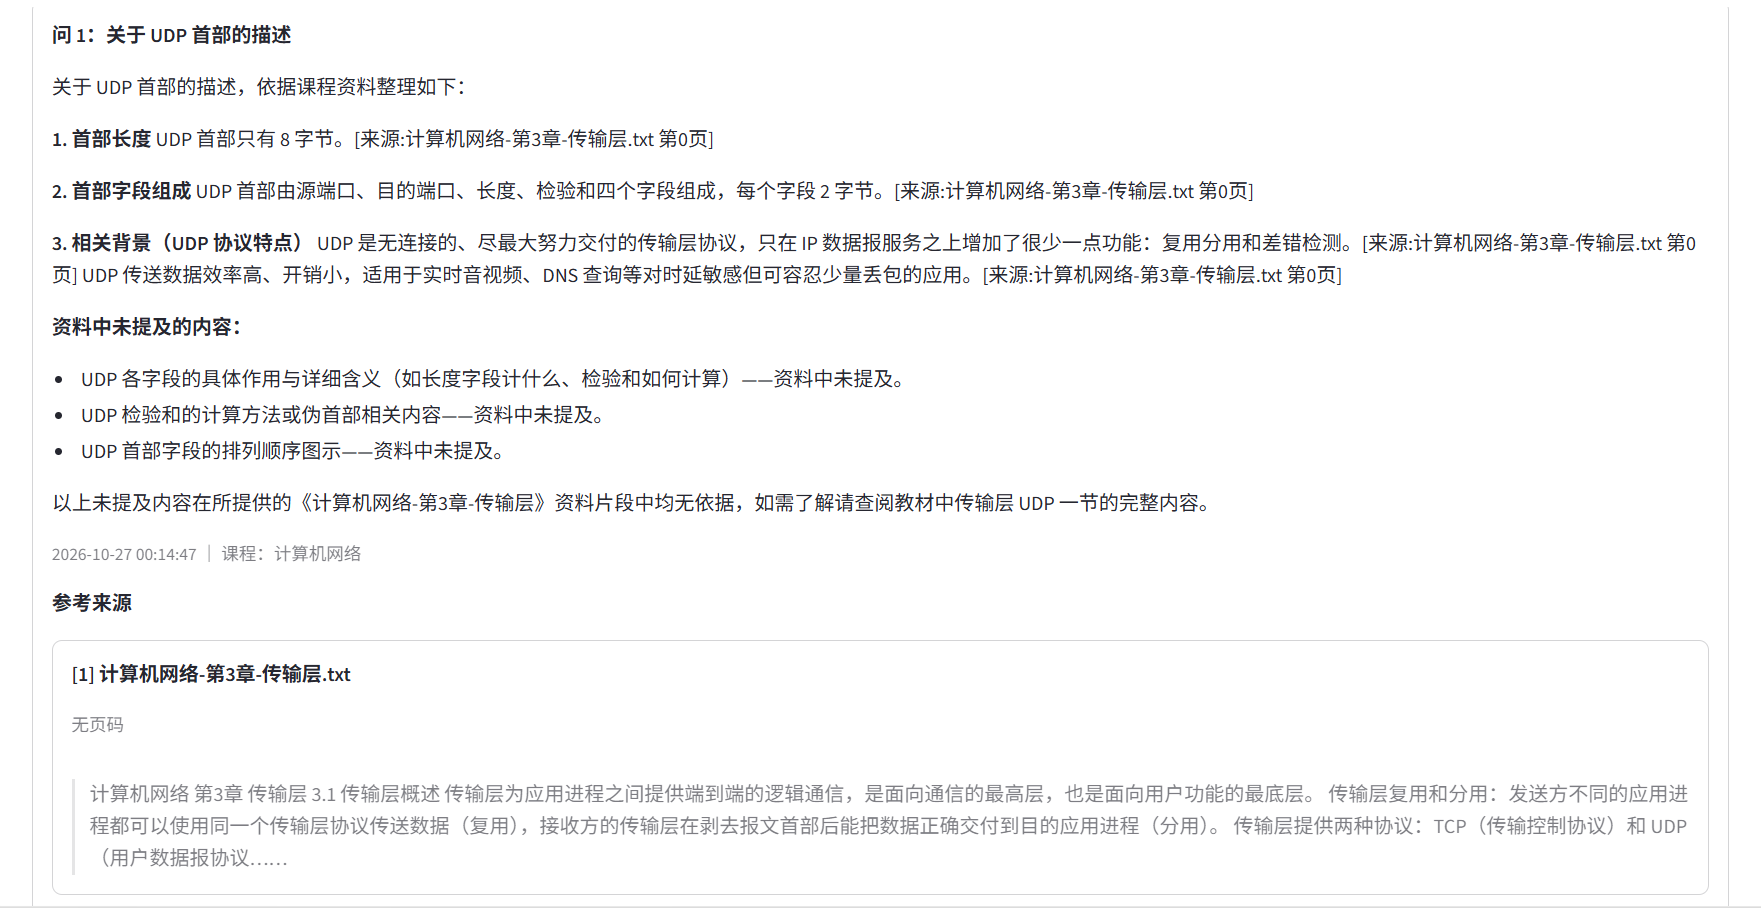
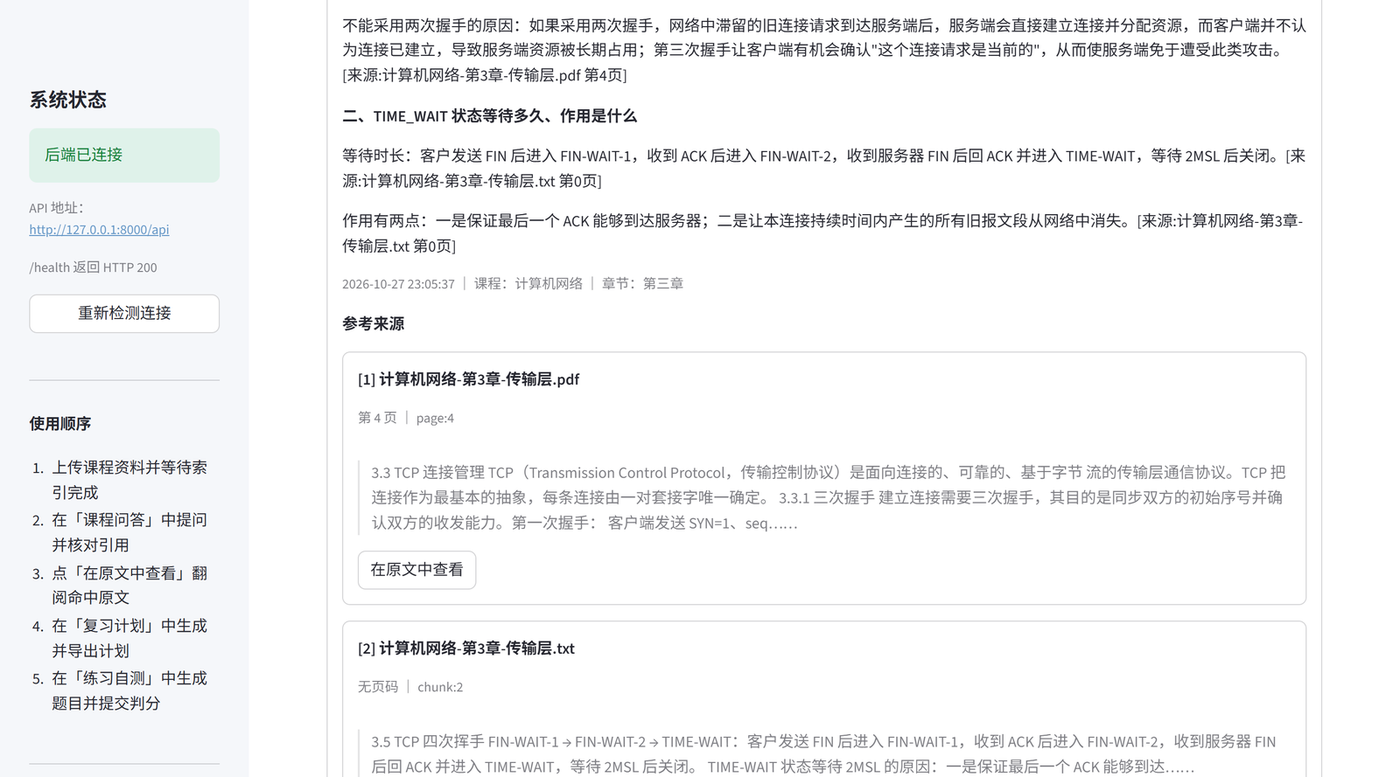
docs: 界面预览换成五页签完整截图（含引用跳转与课本原文）
- 9 张截图与实验报告同一套：上传/列表/问答/引用跳转/课本原文/计划/导出/题目/判分
- 统一压到宽 1400px，删除过期的 04-exercise、05-grading
- 测试清单补 test_chat_citations.py，用例数 18 → 21

Changed region(s): [[0.0, 0.3398, 1.0, 1.0], [0.0, 0.0, 0.9829, 0.3707], [0.2457, 0.7104, 0.3379, 0.7413]]

diff --git a/README.md b/README.md
@@ -20,11 +20,25 @@
 
 ![课程问答](docs/images/03-qa.png)
 
+**引用跳转**：点引用卡片上的「在原文中查看」，问答页下方就地展开阅读器，自动翻到命中页并以高亮底色标出命中段落。
+
+![引用跳转](docs/images/04-citation-open.png)
+
+**课本原文**：左右对开翻书阅读，有页码的资料按真实页码一页对一页，支持按钮、键盘方向键与页码跳转。
+
+![课本原文](docs/images/05-book.png)
+
+**复习计划与导出**：按考试日期生成逐日任务，薄弱章节前置并标注「重点补强」；结果可一键导出 Markdown。
+
+| 复习计划 | 导出结果 |
+|---|---|
+| ![复习计划](docs/images/06-plan.png) | ![导出结果](docs/images/07-export.png) |
+
 **练习自测**：按章节生成填空题与选择题，每题标注来源文件；提交后即时判分并给出标准答案与解析。
 
 | 题目 | 判分结果 |
 |---|---|
-| ![练习题](docs/images/04-exercise.png) | ![判分](docs/images/05-grading.png) |
+| ![练习题](docs/images/08-exercise.png) | ![判分](docs/images/09-grading.png) |
 
 ## 功能
 
@@ -320,13 +334,14 @@ streamlit run frontend/streamlit_app.py --server.port 8501
 .\venv\Scripts\python.exe -m pytest -q
 ```
 
-当前 18 个用例，预期输出 `18 passed`：
+当前 21 个用例，预期输出 `21 passed`：
 
 | 文件 | 覆盖内容 |
 | --- | --- |
 | `tests/test_chain_smoke.py` | 问答主链路冒烟：`answer_question` 返回结构、引用来自检索元数据而非模型自由文本、零召回时的拒答、复习计划的 LLM/规则双路径、单章节多天计划不重复 |
 | `tests/test_exerciser.py` | 出题器：题型轮转分配、参数校验、LLM 失败时降级为规则出题、来源字段完整性 |
 | `tests/test_document_chunks.py` | 原文分块接口：多页分组与页码排序、`page=0` 无页码场景、文档存在但无分块、文档不存在返回 404、向量库异常时降级不报 500 |
+| `tests/test_chat_citations.py` | 引用契约：保留 `doc_id/chunk_id/locator`（前端据此跳到原文）、嵌套 `metadata` 取值、缺文件名的引用被丢弃 |
 
 ## 使用流程
 
